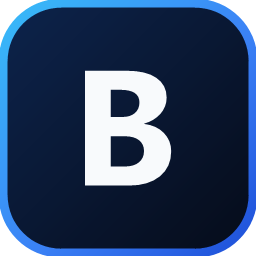
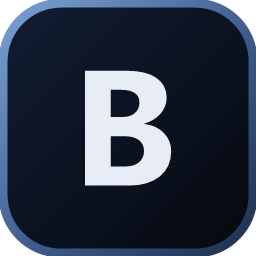
Refine palette to low-glare Smoked Obsidian and Satin Sapphire

Changed region(s): [[0.0, 0.0, 1.0, 1.0]]

diff --git a/index.html b/index.html
@@ -9,17 +9,17 @@
   <meta property="og:title" content="Bizora Video Studio — Tải xuống cho Windows">
   <meta property="og:description" content="Dựng video review phim, truyện và xuất MP4 ngay trên Windows với dữ liệu lưu cục bộ và tự cập nhật trong ứng dụng.">
   <meta property="og:url" content="https://mtrong2004.github.io/Bizora-VideoApp-Releases/">
-  <meta property="og:image" content="https://mtrong2004.github.io/Bizora-VideoApp-Releases/assets/icon.png">
+  <meta property="og:image" content="https://mtrong2004.github.io/Bizora-VideoApp-Releases/assets/icon.png?v=20261124d">
   <meta name="twitter:card" content="summary_large_image">
   <meta name="twitter:title" content="Bizora Video Studio — Tải xuống cho Windows">
   <meta name="twitter:description" content="Ứng dụng desktop dựng video review phim & truyện cho Windows 10/11 (64-bit).">
-  <meta name="twitter:image" content="https://mtrong2004.github.io/Bizora-VideoApp-Releases/assets/icon.png">
-  <link rel="icon" type="image/svg+xml" href="./assets/logo.svg">
-  <link rel="icon" href="./favicon.ico">
+  <meta name="twitter:image" content="https://mtrong2004.github.io/Bizora-VideoApp-Releases/assets/icon.png?v=20261124d">
+  <link rel="icon" type="image/svg+xml" href="./assets/logo.svg?v=20261124d">
+  <link rel="icon" href="./favicon.ico?v=20261124d">
   <link rel="preconnect" href="https://fonts.googleapis.com">
   <link rel="preconnect" href="https://fonts.gstatic.com" crossorigin>
   <link href="https://fonts.googleapis.com/css2?family=Be+Vietnam+Pro:wght@400;500;600;700&family=JetBrains+Mono:wght@400;500&family=Manrope:wght@600;700;800&display=swap" rel="stylesheet">
-  <link rel="stylesheet" href="./styles.css?v=20261124c">
+  <link rel="stylesheet" href="./styles.css?v=20261124d">
 </head>
 <body>
   <a class="skip-link" href="#main-content">Chuyển tới nội dung chính</a>
@@ -28,7 +28,7 @@
   <header class="topbar">
     <div class="container topbar-inner">
       <a class="brand" href="#top" aria-label="Bizora Video Studio">
-        <img class="brand-logo" src="./assets/logo.svg" width="28" height="28" alt="">
+        <img class="brand-logo" src="./assets/logo.svg?v=20261124d" width="28" height="28" alt="">
         <span class="brand-text">
           <span class="brand-name">Bizora</span>
           <span class="brand-sub">Video Studio</span>
@@ -94,7 +94,7 @@
           <div class="showcase-shell">
             <div class="showcase-bar">
               <div class="showcase-identity">
-                <img src="./assets/logo.svg" width="16" height="16" alt="">
+                <img src="./assets/logo.svg?v=20261124d" width="16" height="16" alt="">
                 <span>Bizora Video Studio — Giao diện thực tế trên Windows</span>
               </div>
               <div class="showcase-tablist" focusgroup="tablist nomemory" role="tablist" aria-label="Ảnh chụp các màn hình chính trong Bizora Video Studio">
@@ -109,11 +109,11 @@
                 <div class="showcase-panel-inner">
                   <img
                     class="showcase-img"
-                    src="./assets/screenshots/overview.png"
+                    src="./assets/screenshots/overview.png?v=20261124d"
                     width="1280"
                     height="800"
                     fetchpriority="high"
-                    alt="Giao diện Tổng quan của Bizora Video Studio trên Windows với tông Ocean Blue, thanh điều hướng bên trái và bốn quy trình bắt đầu nhanh."
+                    alt="Giao diện Tổng quan của Bizora Video Studio trên Windows với tông tối Smoked Obsidian, thanh điều hướng bên trái và bốn quy trình bắt đầu nhanh."
                   >
                 </div>
               </div>
@@ -122,7 +122,7 @@
                 <div class="showcase-panel-inner">
                   <img
                     class="showcase-img"
-                    src="./assets/screenshots/video-studio.png"
+                    src="./assets/screenshots/video-studio.png?v=20261124d"
                     width="1280"
                     height="800"
                     fetchpriority="low"
@@ -136,7 +136,7 @@
                 <div class="showcase-panel-inner">
                   <img
                     class="showcase-img"
-                    src="./assets/screenshots/publishing.png"
+                    src="./assets/screenshots/publishing.png?v=20261124d"
                     width="1280"
                     height="800"
                     fetchpriority="low"
@@ -299,7 +299,7 @@
   <footer class="site-footer">
     <div class="container footer-inner">
       <div class="footer-brand">
-        <img src="./assets/logo.svg" width="22" height="22" alt="">
+        <img src="./assets/logo.svg?v=20261124d" width="22" height="22" alt="">
         <span>Bizora Video Studio · Kênh phân phối chính thức cho Windows</span>
       </div>
       <nav class="footer-links" aria-label="Liên kết chân trang">
@@ -311,6 +311,6 @@
     </div>
   </footer>
 
-  <script src="./app.js?v=20261124c" defer></script>
+  <script src="./app.js?v=20261124d" defer></script>
 </body>
 </html>

diff --git a/styles.css b/styles.css
@@ -6,50 +6,51 @@
   --font-display: 'Manrope', 'Be Vietnam Pro', system-ui, sans-serif;
   --font-mono: 'JetBrains Mono', ui-monospace, SFMono-Regular, Menlo, Consolas, monospace;
 
-  /* Abyssal Ocean Slate Surfaces (mirrors Bizora Desktop Ocean Blue) */
-  --bg-canvas: #050811;
-  --bg-surface: #0a111f;
-  --bg-elevated: #0f192d;
-  --bg-inset: #070c17;
-  --bg-header: rgba(5, 8, 17, 0.84);
-  --bg-bar: #0c1425;
+  /* Smoked Obsidian Surfaces (mirrors Bizora Desktop low-glare palette) */
+  --bg-canvas: #04060a;
+  --bg-surface: #090d14;
+  --bg-elevated: #0e141f;
+  --bg-inset: #06090f;
+  --bg-header: rgba(4, 6, 10, 0.86);
+  --bg-bar: #0b1019;
 
-  /* Hairline Borders */
-  --border-hairline: rgba(148, 185, 255, 0.11);
-  --border-strong: rgba(148, 185, 255, 0.22);
-  --border-focus: #38bdf8;
-  --border-brand: #3b82f6;
-  --surface-specular: rgba(186, 220, 255, 0.08);
-  --btn-specular: rgba(255, 255, 255, 0.22);
-  --btn-ver-bg: rgba(255, 255, 255, 0.16);
+  /* Whisper-thin Hairline Borders */
+  --border-hairline: rgba(203, 218, 245, 0.08);
+  --border-strong: rgba(203, 218, 245, 0.16);
+  --border-focus: #7ea2d6;
+  --border-brand: #3a5c91;
+  --surface-specular: rgba(203, 218, 245, 0.06);
+  --btn-specular: rgba(214, 230, 255, 0.15);
+  --btn-ver-bg: rgba(255, 255, 255, 0.10);
 
-  /* Text Tokens (WCAG AA+ >= 4.5:1) */
-  --text-primary: #f4f7fc;
-  --text-secondary: #9bb0d0;
-  --text-muted: #7f94b5;
-  --text-code: #cde4ff;
-  --text-on-brand: #ffffff;
+  /* Low-Glare Platinum Typography (WCAG AA+ >= 4.5:1) */
+  --text-primary: #e8edf5;
+  --text-secondary: #92a0b8;
+  --text-muted: #76839b;
+  --text-code: #b9cce8;
+  --text-on-brand: #eef3fb;
 
-  /* Ocean Blue Brand Accents */
-  --brand-blue: #2563eb;
-  --brand-blue-hover: #1d4ed8;
-  --accent-sky: #38bdf8;
-  --accent-blue-soft: rgba(37, 99, 235, 0.16);
-  --accent-sky-soft: rgba(56, 189, 248, 0.14);
-  --hero-glow-center: rgba(37, 99, 235, 0.14);
-  --hero-glow-edge: rgba(56, 189, 248, 0.05);
+  /* Satin Sapphire Accents (zero neon glare) */
+  --brand-blue: #1e365c;
+  --brand-blue-top: #264370;
+  --brand-blue-hover: #29487a;
+  --accent-sky: #7ea2d6;
+  --accent-blue-soft: rgba(126, 162, 214, 0.11);
+  --accent-sky-soft: rgba(126, 162, 214, 0.10);
+  --hero-glow-center: rgba(54, 86, 138, 0.09);
+  --hero-glow-edge: rgba(126, 162, 214, 0.03);
 
   /* Status & Scrollbar */
-  --status-ok: #5ec9a2;
-  --status-warn-bg: rgba(245, 158, 11, 0.10);
-  --status-warn-border: rgba(245, 158, 11, 0.30);
-  --status-warn-text: #fcd34d;
-  --shadow-window: 0 28px 72px rgba(0, 0, 0, 0.65), 0 4px 18px rgba(0, 0, 0, 0.40);
+  --status-ok: #52b08d;
+  --status-warn-bg: rgba(212, 176, 106, 0.09);
+  --status-warn-border: rgba(212, 176, 106, 0.26);
+  --status-warn-text: #d4b06a;
+  --shadow-window: 0 28px 72px rgba(0, 0, 0, 0.72), 0 4px 18px rgba(0, 0, 0, 0.48);
 
   /* Custom Scrollbar (contrast >= 3:1 against track) */
-  --scrollbar-thumb: #3c547e;
-  --scrollbar-thumb-hover: #5373a8;
-  --scrollbar-track: #070d19;
+  --scrollbar-thumb: #33435e;
+  --scrollbar-thumb-hover: #475e85;
+  --scrollbar-track: #06090f;
 
   /* Radius & Sizing */
   --radius-sm: 6px;
@@ -276,7 +277,7 @@ summary:focus-visible,
 }
 
 .btn-primary {
-  background: var(--brand-blue);
+  background: linear-gradient(180deg, var(--brand-blue-top), var(--brand-blue));
   border-color: var(--border-brand);
   color: var(--text-on-brand);
   box-shadow: inset 0 1px 0 var(--btn-specular);
@@ -284,7 +285,7 @@ summary:focus-visible,
 
 .btn-primary:hover {
   background: var(--brand-blue-hover);
-  border-color: var(--brand-blue-hover);
+  border-color: var(--accent-sky);
 }
 
 .btn-ghost {
